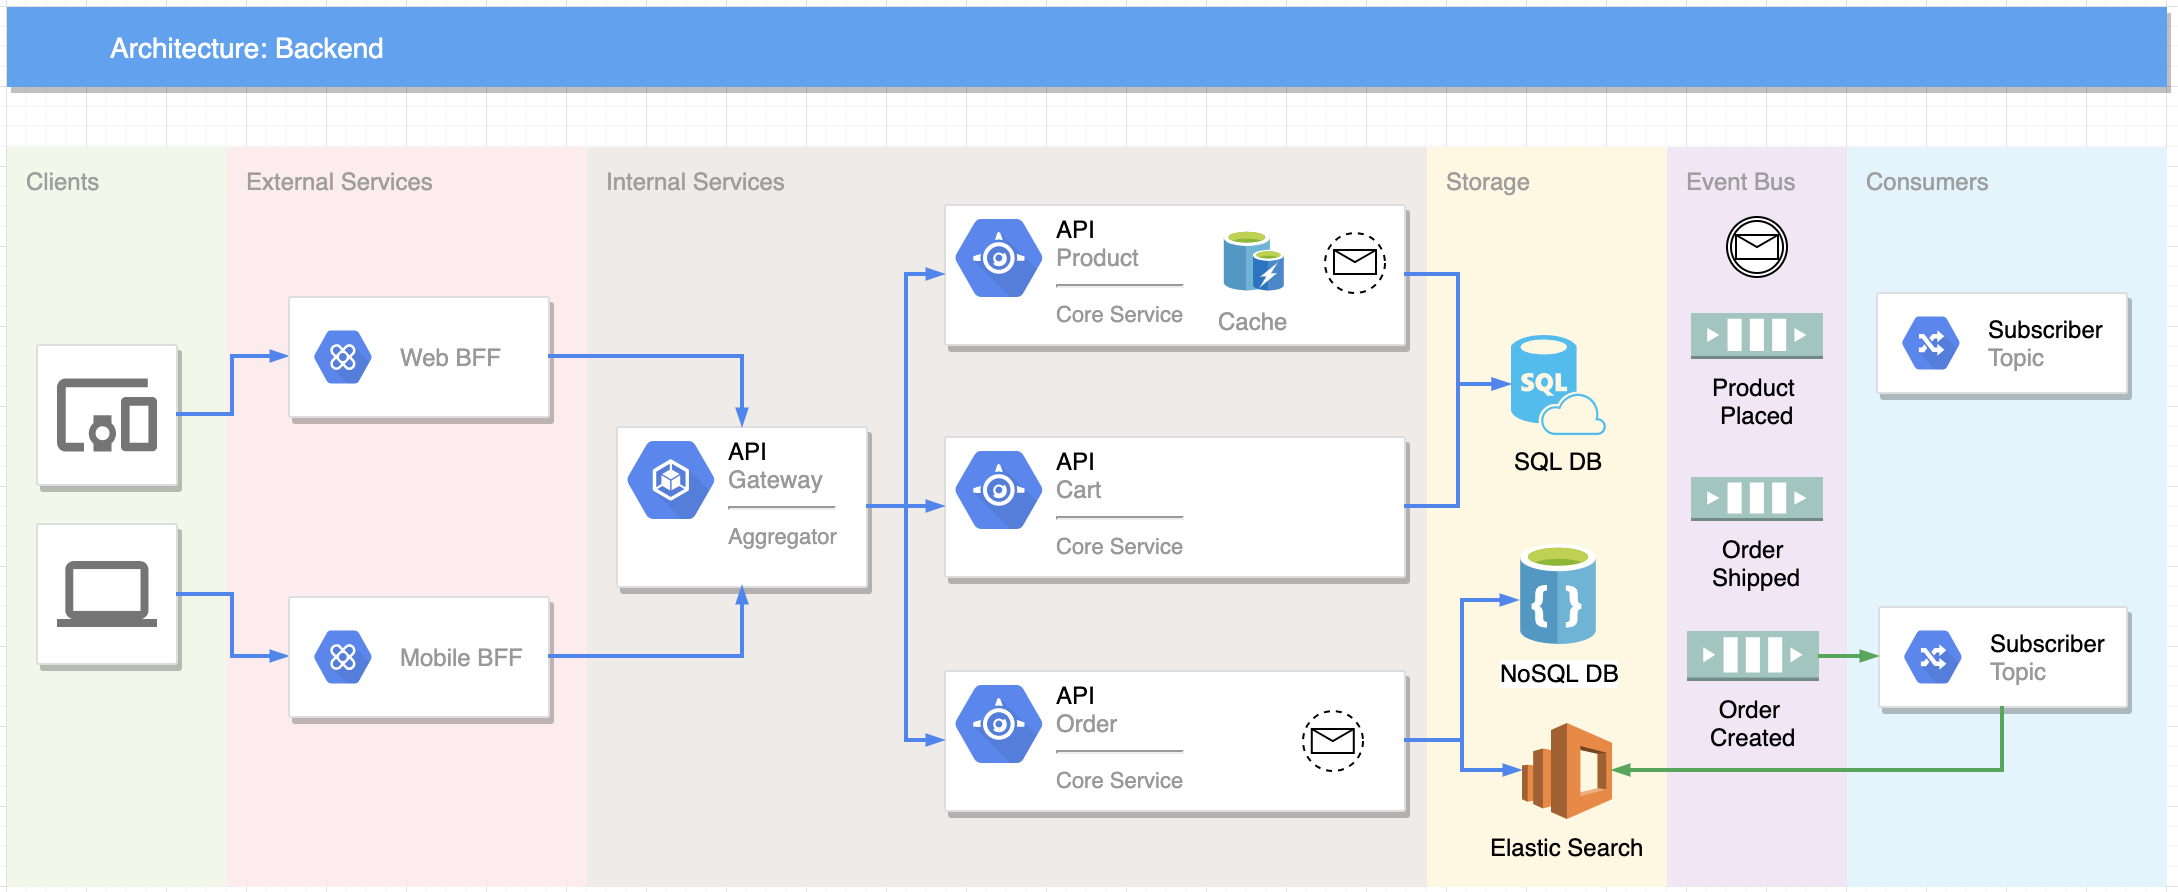
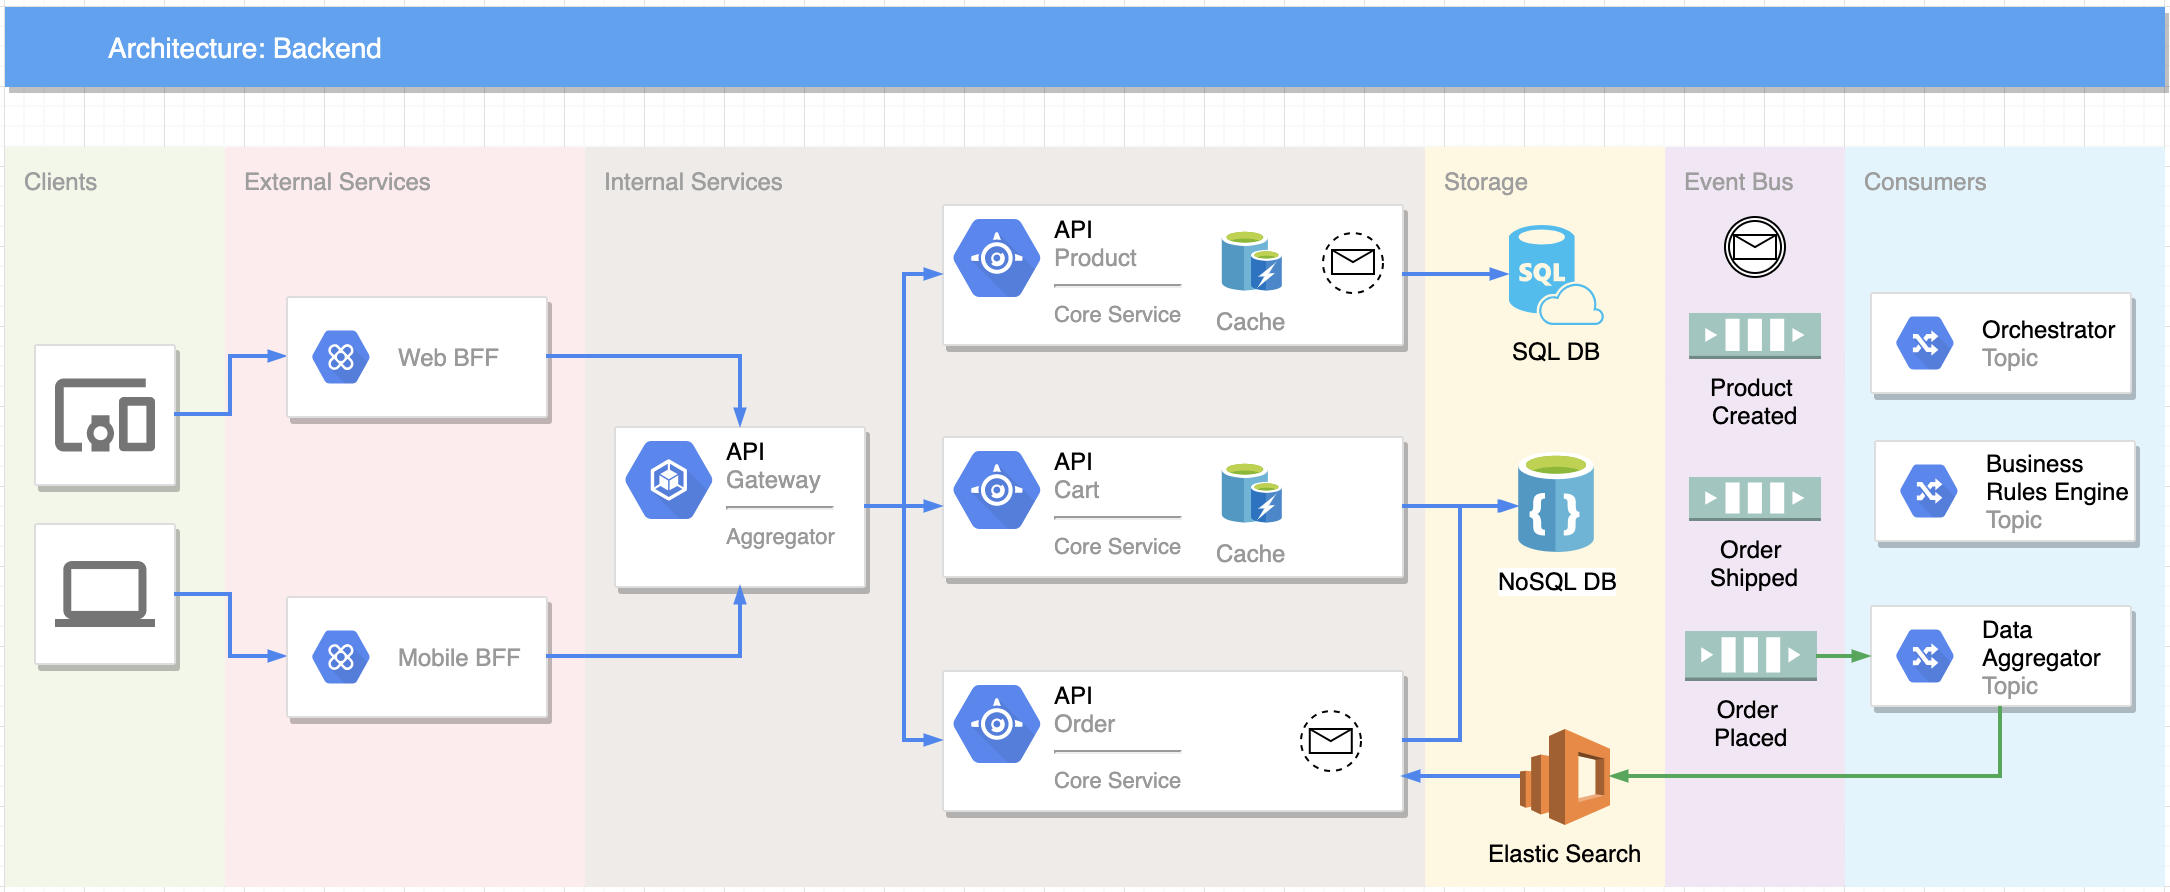
added Orchestrator service

diff --git a/codebase/Test/Gateways/Webgateway/WebGateway.Tests.cs b/codebase/Test/Gateways/Webgateway/WebGateway.Tests.cs
@@ -17,11 +17,42 @@ namespace Webstore.Test.Gateways
 {
     public class WebGatewayTests
     {
-        private readonly TestServer _server;
+        private readonly TestServer _gatewayServer;
         public WebGatewayTests()
         {
-            _server = new TestServer(new WebHostBuilder()
+            _gatewayServer = new TestServer(new WebHostBuilder()
                 .UseStartup<Webstore.Webgateway.Startup>());
+        }
+
+        [Fact]
+        public async Task CanAddProducts()
+        {
+            IEnumerable<Webstore.Models.Product> products = null;
+            //Given
+            var body = new[]
+            {
+                new
+                {
+                    Name= "AFRICAN TEA",
+                    Price= "7.5",
+                    Properties= new []
+                    {
+                        new
+                        {
+                            Property= new {
+                                Name= "Count",
+                                Type= "int"
+                            },
+                            Value= 15
+                        }
+                    }
+                }
+            };
+            //When
+            products = await ServiceClient.PostAsync<IEnumerable<Webstore.Models.Product>>("https://webstore-productapi.azurewebsites.net/api/products/", body);
+
+            //Then
+            Assert.True(products != null);
         }
 
         [Fact]
@@ -30,7 +61,7 @@ namespace Webstore.Test.Gateways
             //Given
             IEnumerable<Webstore.Models.Product> products = null;
             //When
-            using (HttpClient client = _server.CreateClient())
+            using (HttpClient client = _gatewayServer.CreateClient())
             {
                 products = await ServiceClient.GetAsync<IEnumerable<Webstore.Models.Product>>(client, "api/webstore/products/");
             }
@@ -42,7 +73,7 @@ namespace Webstore.Test.Gateways
         public async Task CanGetProduct()
         {
             Webstore.Models.Product product = null;
-            using (HttpClient client = _server.CreateClient())
+            using (HttpClient client = _gatewayServer.CreateClient())
             {
                 product = await ServiceClient.GetAsync<Webstore.Models.Product>(client, "api/webstore/products/1");
             }
@@ -56,7 +87,7 @@ namespace Webstore.Test.Gateways
             var sessionId = Guid.NewGuid().ToString();
             Cart cart = null;
             //When
-            using (HttpClient client = _server.CreateClient())
+            using (HttpClient client = _gatewayServer.CreateClient())
             {
                 cart = await ServiceClient.GetAsync<Cart>(client, "api/webstore/cart/" + sessionId);
             }
@@ -74,7 +105,7 @@ namespace Webstore.Test.Gateways
             var cartProduct = new { ProductId = 1, Quantity = 3 };
 
             //When
-            using (HttpClient client = _server.CreateClient())
+            using (HttpClient client = _gatewayServer.CreateClient())
             {
                 cart = await ServiceClient.PostAsync<Cart>(client, "api/webstore/cart/" + sessionId, cartProduct);
                 cart = await ServiceClient.GetAsync<Cart>(client, "api/webstore/cart/" + sessionId);
@@ -95,7 +126,7 @@ namespace Webstore.Test.Gateways
             var customer = new { FirstName = "Juan", LastName = "Lopez", Email = "juanbossco@gmail.com" };
             Order order = null;
             //When
-            using (HttpClient client = _server.CreateClient())
+            using (HttpClient client = _gatewayServer.CreateClient())
             {
                 order = await ServiceClient.PostAsync<Order>(client, "api/checkout/" + sessionId, customer);
             }

diff --git a/codebase/Consumers/Orchestrator/Startup.cs b/codebase/Consumers/Orchestrator/Startup.cs
@@ -1,0 +1,48 @@
+using System;
+using System.Collections.Generic;
+using System.Linq;
+using System.Threading.Tasks;
+using Microsoft.AspNetCore.Builder;
+using Microsoft.AspNetCore.Hosting;
+using Microsoft.AspNetCore.HttpsPolicy;
+using Microsoft.AspNetCore.Mvc;
+using Microsoft.Extensions.Configuration;
+using Microsoft.Extensions.DependencyInjection;
+using Microsoft.Extensions.Logging;
+using Microsoft.Extensions.Options;
+
+namespace Webstore.Orchestrator
+{
+    public class Startup
+    {
+        public Startup(IConfiguration configuration)
+        {
+            Configuration = configuration;
+        }
+
+        public IConfiguration Configuration { get; }
+
+        // This method gets called by the runtime. Use this method to add services to the container.
+        public void ConfigureServices(IServiceCollection services)
+        {
+            services.AddMvc().SetCompatibilityVersion(CompatibilityVersion.Version_2_2);
+        }
+
+        // This method gets called by the runtime. Use this method to configure the HTTP request pipeline.
+        public void Configure(IApplicationBuilder app, IHostingEnvironment env)
+        {
+            if (env.IsDevelopment())
+            {
+                app.UseDeveloperExceptionPage();
+            }
+            else
+            {
+                // The default HSTS value is 30 days. You may want to change this for production scenarios, see https://aka.ms/aspnetcore-hsts.
+                app.UseHsts();
+            }
+
+            //app.UseHttpsRedirection();
+            app.UseMvc();
+        }
+    }
+}

diff --git a/codebase/Consumers/Orchestrator/Controllers/ValuesController.cs b/codebase/Consumers/Orchestrator/Controllers/ValuesController.cs
@@ -1,0 +1,45 @@
+using System;
+using System.Collections.Generic;
+using System.Linq;
+using System.Threading.Tasks;
+using Microsoft.AspNetCore.Mvc;
+
+namespace Orchestrator.Controllers
+{
+    [Route("api/[controller]")]
+    [ApiController]
+    public class ValuesController : ControllerBase
+    {
+        // GET api/values
+        [HttpGet]
+        public ActionResult<IEnumerable<string>> Get()
+        {
+            return new string[] { "value1", "value2" };
+        }
+
+        // GET api/values/5
+        [HttpGet("{id}")]
+        public ActionResult<string> Get(int id)
+        {
+            return "value";
+        }
+
+        // POST api/values
+        [HttpPost]
+        public void Post([FromBody] string value)
+        {
+        }
+
+        // PUT api/values/5
+        [HttpPut("{id}")]
+        public void Put(int id, [FromBody] string value)
+        {
+        }
+
+        // DELETE api/values/5
+        [HttpDelete("{id}")]
+        public void Delete(int id)
+        {
+        }
+    }
+}

diff --git a/codebase/Consumers/Orchestrator/Program.cs b/codebase/Consumers/Orchestrator/Program.cs
@@ -1,0 +1,24 @@
+using System;
+using System.Collections.Generic;
+using System.IO;
+using System.Linq;
+using System.Threading.Tasks;
+using Microsoft.AspNetCore;
+using Microsoft.AspNetCore.Hosting;
+using Microsoft.Extensions.Configuration;
+using Microsoft.Extensions.Logging;
+
+namespace Webstore.Orchestrator
+{
+    public class Program
+    {
+        public static void Main(string[] args)
+        {
+            CreateWebHostBuilder(args).Build().Run();
+        }
+
+        public static IWebHostBuilder CreateWebHostBuilder(string[] args) =>
+            WebHost.CreateDefaultBuilder(args)
+                .UseStartup<Startup>();
+    }
+}

diff --git a/codebase/Gateways/webgateway/Controllers/CheckoutController.cs b/codebase/Gateways/webgateway/Controllers/CheckoutController.cs
@@ -32,6 +32,8 @@ namespace Webstore.Webgateway.Controllers
             var cart = await _cartClient.Get(sessionId);
             var order = new Order(customer, cart);
             order = await _orderClient.Post(order);
+            //TODO replace below point-to-point integration with publushing OrderPlaced event
+            await _cartClient.Delete(sessionId);
             return Ok(order);
         }
     }

diff --git a/codebase/Consumers/README.md b/codebase/Consumers/README.md
@@ -1,0 +1,7 @@
+# Orchestrator
+
+## Overview
+
+API for demo purposes
+
+This service could be replaced by a third party Microservices Orchestration Engine
